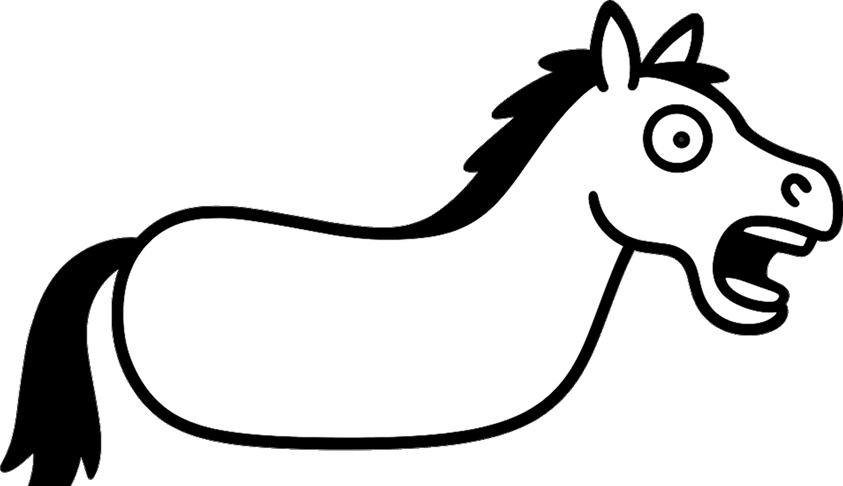
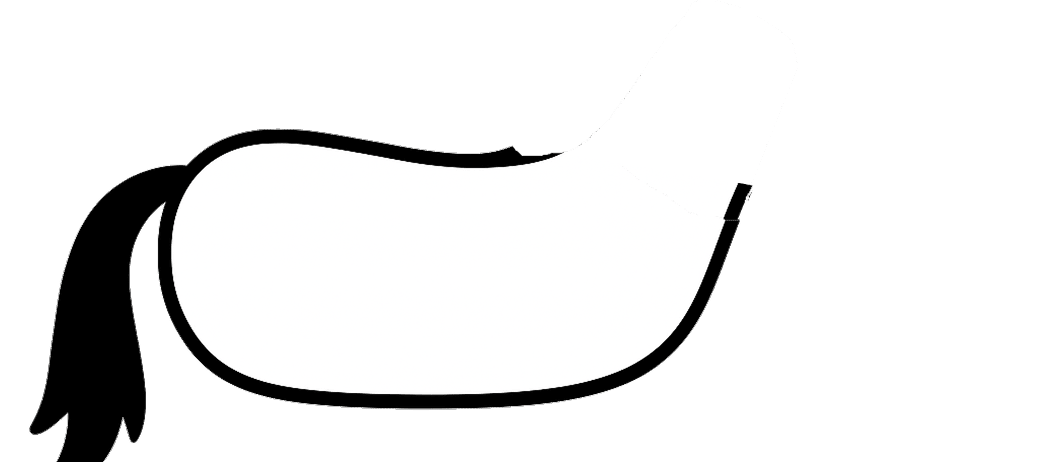
Merge pull request #11
* fix

* Merge branch 'main' into ilya-dev

* Merge branch 'main' into ilya-dev

* fix

* Merge branch 'main' into ilya-dev

* fix

* Merge branch 'main' into ilya-dev

Changed region(s): [[0.0, 0.0, 1.0, 1.0]]

diff --git a/pages/game.vue b/pages/game.vue
@@ -64,7 +64,9 @@ class CarExampleScene extends Phaser.Scene {
 
   preload() {
     // загружаем текстуру кузова вместо debug
-    this.load.image('horse-body', '/images/horse_body.png') // путь подправь по своему имени png
+    this.load.image('horse-body', '/images/horse_body.png')
+    this.load.image('horse-head', '/images/horse_head.png')
+    this.load.image('horse-leg', '/images/left_leg.png')
   }
 
   create() {
@@ -147,7 +149,7 @@ class CarExampleScene extends Phaser.Scene {
     // Constraint to fix carRoof to carBody
     this.matter.add.constraint(this.carBody, this.carRoof, 0, 1, {
       pointA: { x: 30, y: -40 },
-      pointB: { x: 0, y: 5 },
+      // pointB: { x: 0, y: -5 },
     })
     // Wheels (physics only) - positioned under the car body
     this.leftWheel = this.matter.add.circle(carX - 32, carY + 13, 12, {
@@ -178,12 +180,36 @@ class CarExampleScene extends Phaser.Scene {
     const bodySprite = this.add.sprite(0, 0, 'horse-body').setOrigin(0.5, 0.5)
     bodySprite.displayWidth = 82
     bodySprite.displayHeight = 46 // немного больше, чтобы занять место кузова
+    const headSprite = this.add.sprite(0, 0, 'horse-head').setOrigin(0.5, 0.5)
+    headSprite.displayWidth = 4 * 14
+    headSprite.displayHeight = 3 * 14
+    const leftLegSprite = this.add.sprite(0, 0, 'horse-leg').setOrigin(0.5, 0.5)
+    leftLegSprite.displayWidth = 2 * 14
+    leftLegSprite.displayHeight = 3 * 14
+    const rightLegSprite = this.add.sprite(0, 0, 'horse-leg').setOrigin(0.5, 0.5)
+    rightLegSprite.displayWidth = 2 * 14
+    rightLegSprite.displayHeight = 3 * 14
     // слежение за физическим телом
     this.add.existing(bodySprite)
+    this.add.existing(headSprite)
+    this.add.existing(leftLegSprite)
+    this.add.existing(rightLegSprite)
     this.events.on('postupdate', () => {
-      bodySprite.x = this.carBody.position.x
-      bodySprite.y = this.carBody.position.y
+      bodySprite.x = this.carBody.position.x + 10
+      bodySprite.y = this.carBody.position.y - 15
       bodySprite.rotation = this.carBody.angle
+
+      headSprite.x = this.carRoof.position.x
+      headSprite.y = this.carRoof.position.y
+      headSprite.rotation = this.carRoof.angle
+
+      leftLegSprite.x = this.carBody.position.x - 17
+      leftLegSprite.y = this.carBody.position.y + 10
+      leftLegSprite.rotation = this.carBody.angle
+
+      rightLegSprite.x = this.carBody.position.x + 32
+      rightLegSprite.y = this.carBody.position.y + 13
+      rightLegSprite.rotation = this.carBody.angle
     })
 
     // Дебажных прямоугольников и колес больше не рисуем!
